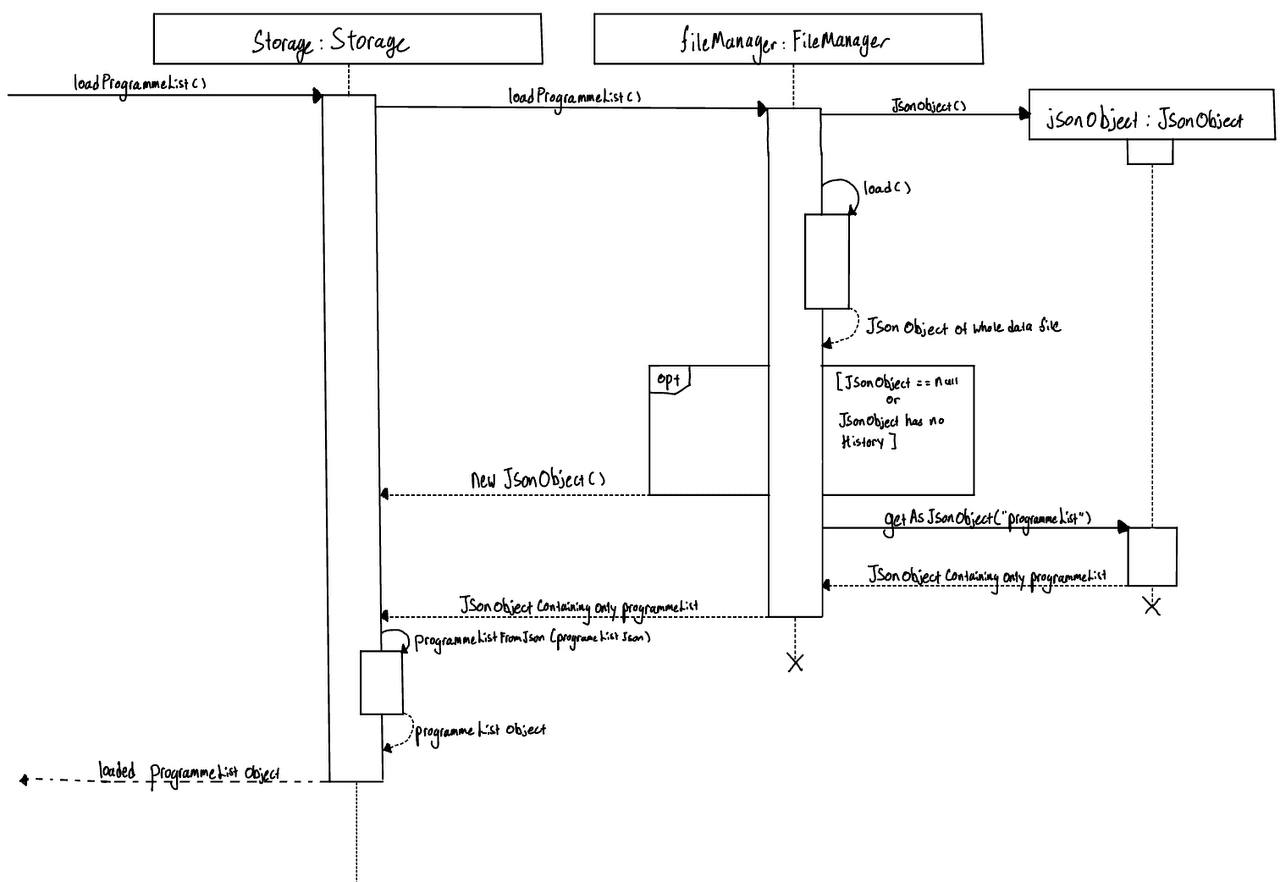
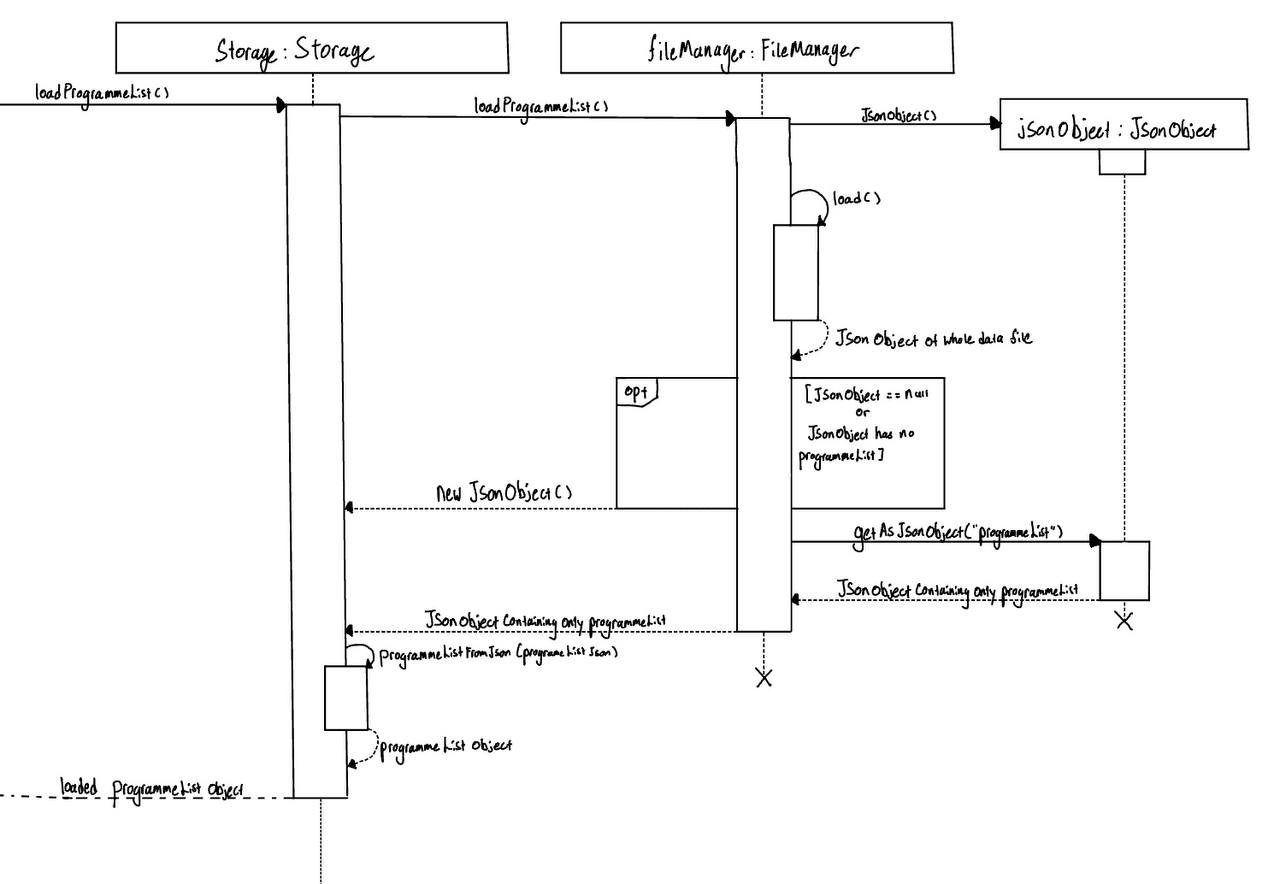
Add Save Seq Diagram

Changed region(s): [[0.0, 0.0, 1.0, 1.0]]

diff --git a/docs/DeveloperGuide.md b/docs/DeveloperGuide.md
@@ -105,11 +105,8 @@ objects, restoring the user's previous session.
 The following sequence diagram shows how a load operation for ProgrammeList goes through the Storage component:
 ![Sequence Diagram for Load operation](./images/LoadProgrammeList_Seq_Dia.jpg)
 
-The following sequence diagram shows how a load operation for ProgrammeList goes through the Storage component:
-![Sequence Diagram for Load operation](./images/LoadHistory_Seq_Dia.jpg)
-
 The following sequence diagram shows how a save operation goes through the Storage component:
-![Sequence Diagram for Save operation](./images/Save_Sequence_Diagram.jpg)
+![Sequence Diagram for Save operation](./images/Save_Seq-Dia.jpg)
 
 --- 
 
